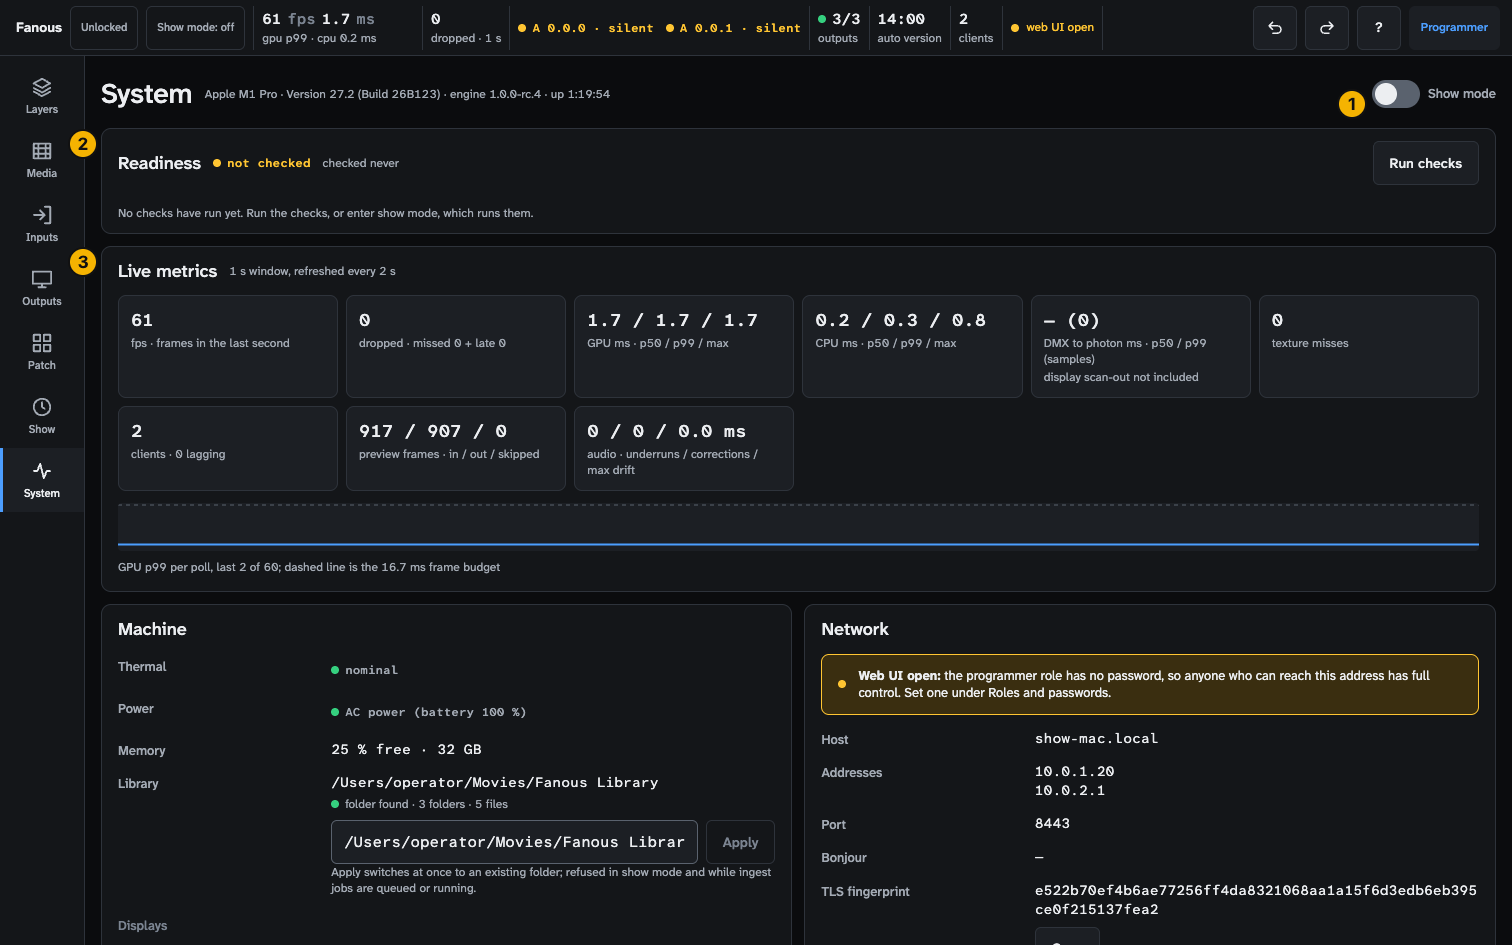
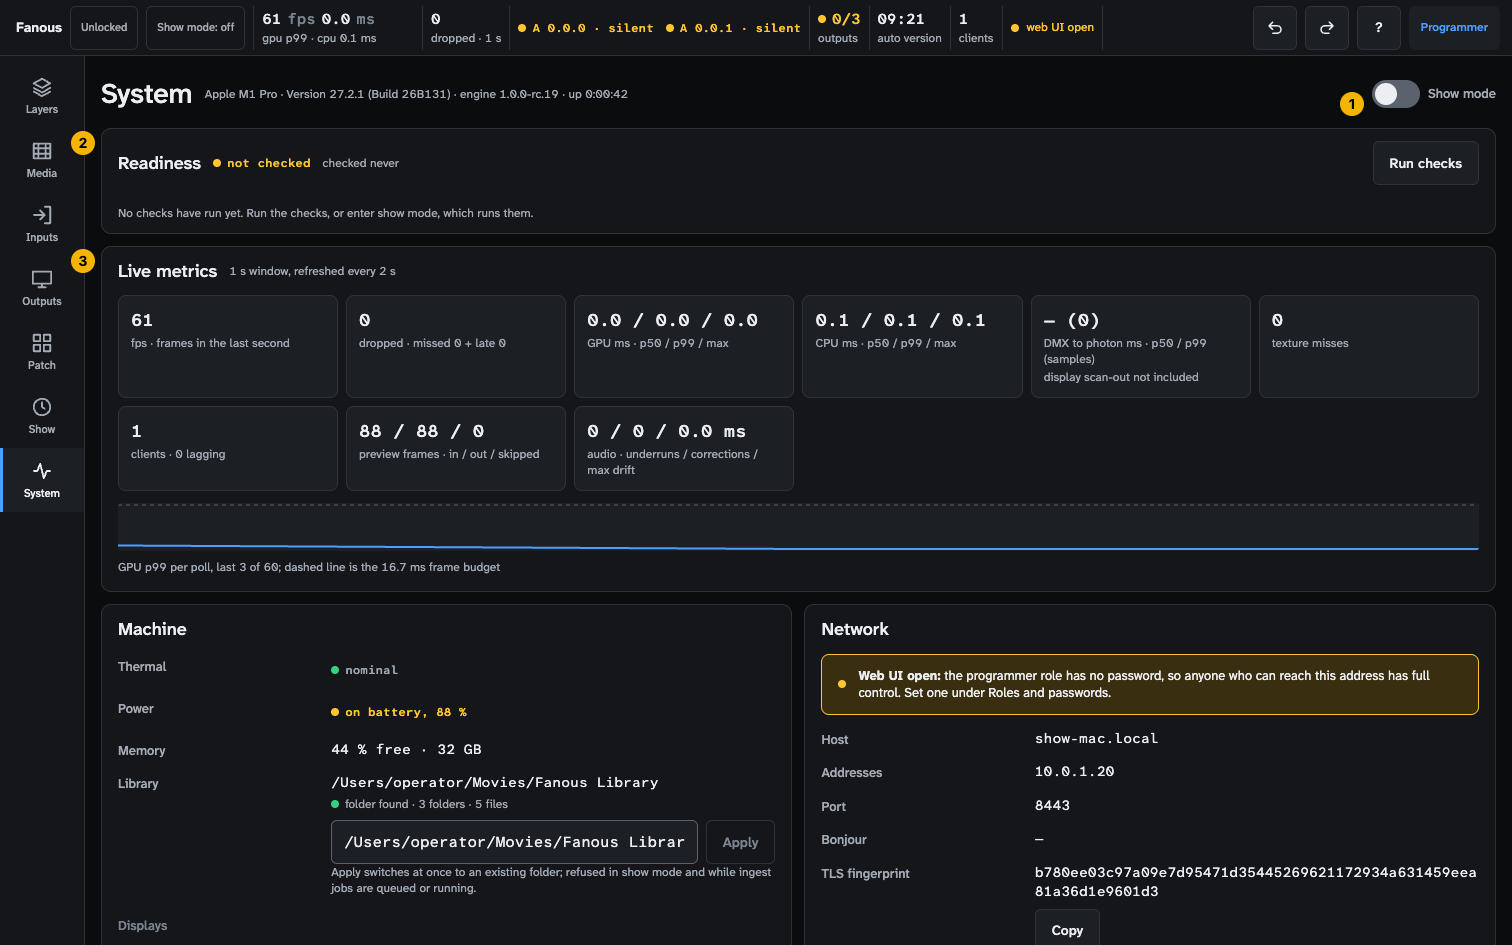
Docs: retake the pictures that showed engine 1.0.0-rc.4 or rc.2
screens-system.png and logs.png showed engine 1.0.0-rc.4, the System
frame of tour.gif rc.2 with the readiness list of then; all three now
show 1.0.0-rc.19. The tour keeps its other five frames and 2.5 s cadence.

diff --git a/CHANGELOG.md b/CHANGELOG.md
@@ -10,8 +10,8 @@ implements is `docs/DESIGN.md`; known limitations are in `docs/BACKLOG.md`.
 
 ## Unreleased
 
-- Docs: screenshots retaken for the show mode popover, the refused-command banner, two Patch screen layer groups and
-  the content template (PR #504).
+- Docs: screenshots retaken for the show mode popover, the refused-command banner, two Patch screen layer groups, the
+  content template, and the System screen, Logs panel and tour frame that showed an old engine version (PR #504).
 - Release: 1.0.0-rc.19 is on GitHub as a pre-release with the signed, notarized dmg, built from main 59c1f2e
   (PR #501).
 
